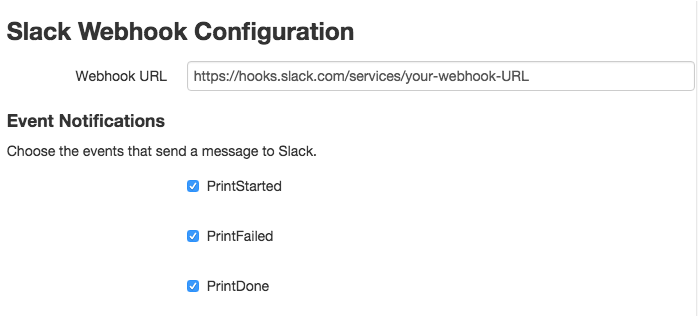
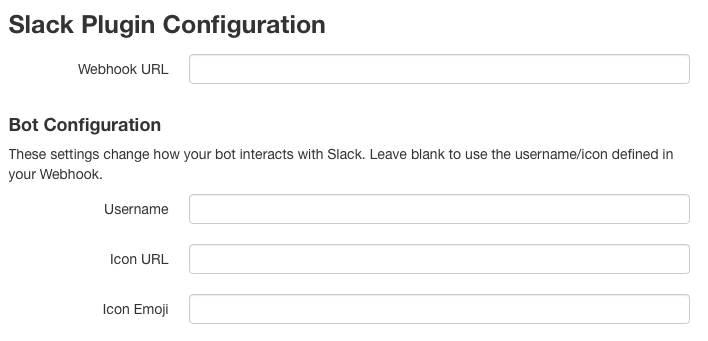
Update Slack plugin.

diff --git a/_plugins/slack.md b/_plugins/slack.md
@@ -30,6 +30,10 @@ screenshots:
   alt: Settings for plugin
   caption: Configurable settings for plugin
 
+- url: /assets/img/plugins/slack/settings2.png
+  alt: More settings for plugin
+  caption: Configurable event messages
+
 featuredimage: /assets/img/plugins/slack/slack.png
 
 compatibility:
@@ -39,3 +43,11 @@ compatibility:
 
 ---
 Send messages to your group's Slack chat when printing events happen! You need to set up an [Incoming Webhook](https://my.slack.com/services/new/incoming-webhook) integration on the Slack side to use this.
+
+Features
+--------
+
+* Select which events you want to trigger a chat notification for
+* Customizable messages for each event
+* Customize bot icon and username in Slack chat
+* Sends elapsed time of print after finished
